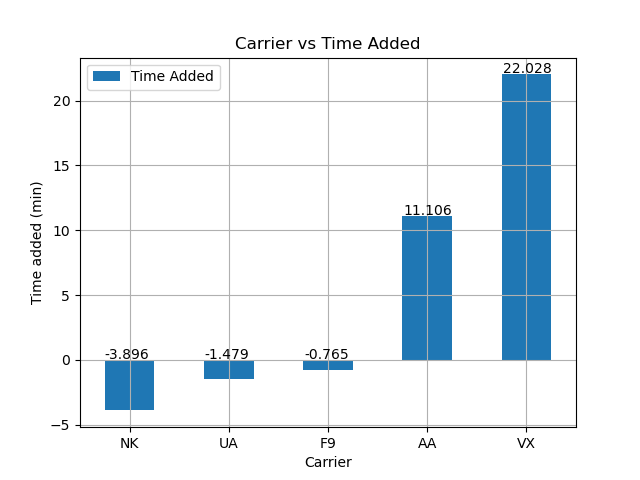
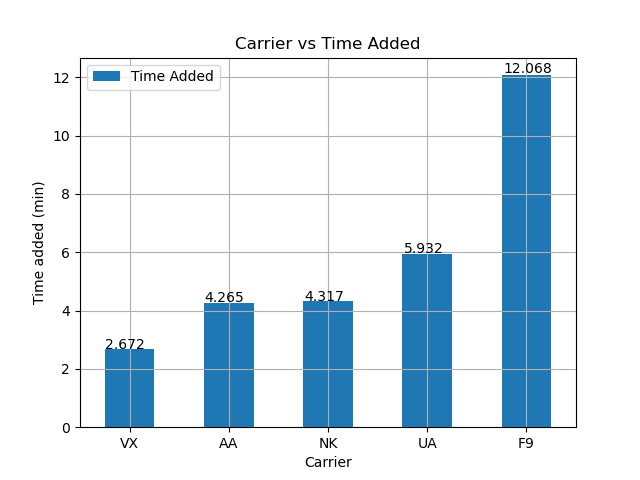
changed way to calculate the typical flight time

diff --git a/CASE STUDY FASTEST AIRLINES (PART 1)/flight.py b/CASE STUDY FASTEST AIRLINES (PART 1)/flight.py
@@ -13,9 +13,11 @@ if __name__ == '__main__':
     target_flight_time = 0.117 * d + 0.517 * (l_ori - l_des) + 20
     print(target_flight_time)
 
-    means: pd.DataFrame = flight_file.groupby("Carrier").mean()[["Arrival Delay", "Departure Delay", "Flight Time"]]
+    average_arr_delay, average_departure_delay = flight_file.mean()[['Arrival Delay', "Departure Delay"]]
 
-    means["Typical Flight Time"] = target_flight_time + means["Arrival Delay"] + means["Departure Delay"]
+    means: pd.DataFrame = flight_file.groupby("Carrier").mean()[["Flight Time"]]
+
+    means["Typical Flight Time"] = target_flight_time + average_arr_delay + average_departure_delay
 
     means["Time Added"] = means["Flight Time"] - means["Typical Flight Time"]
 
